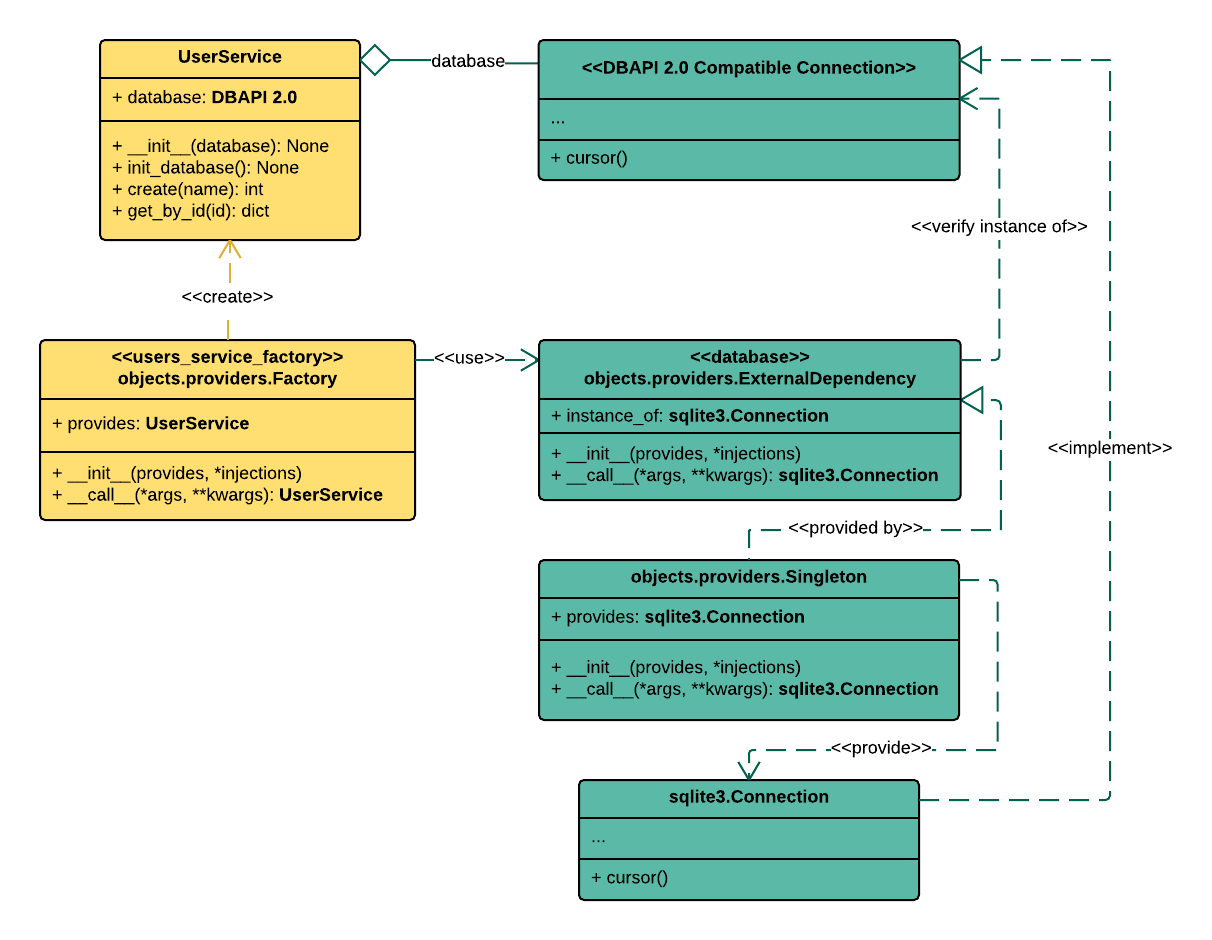
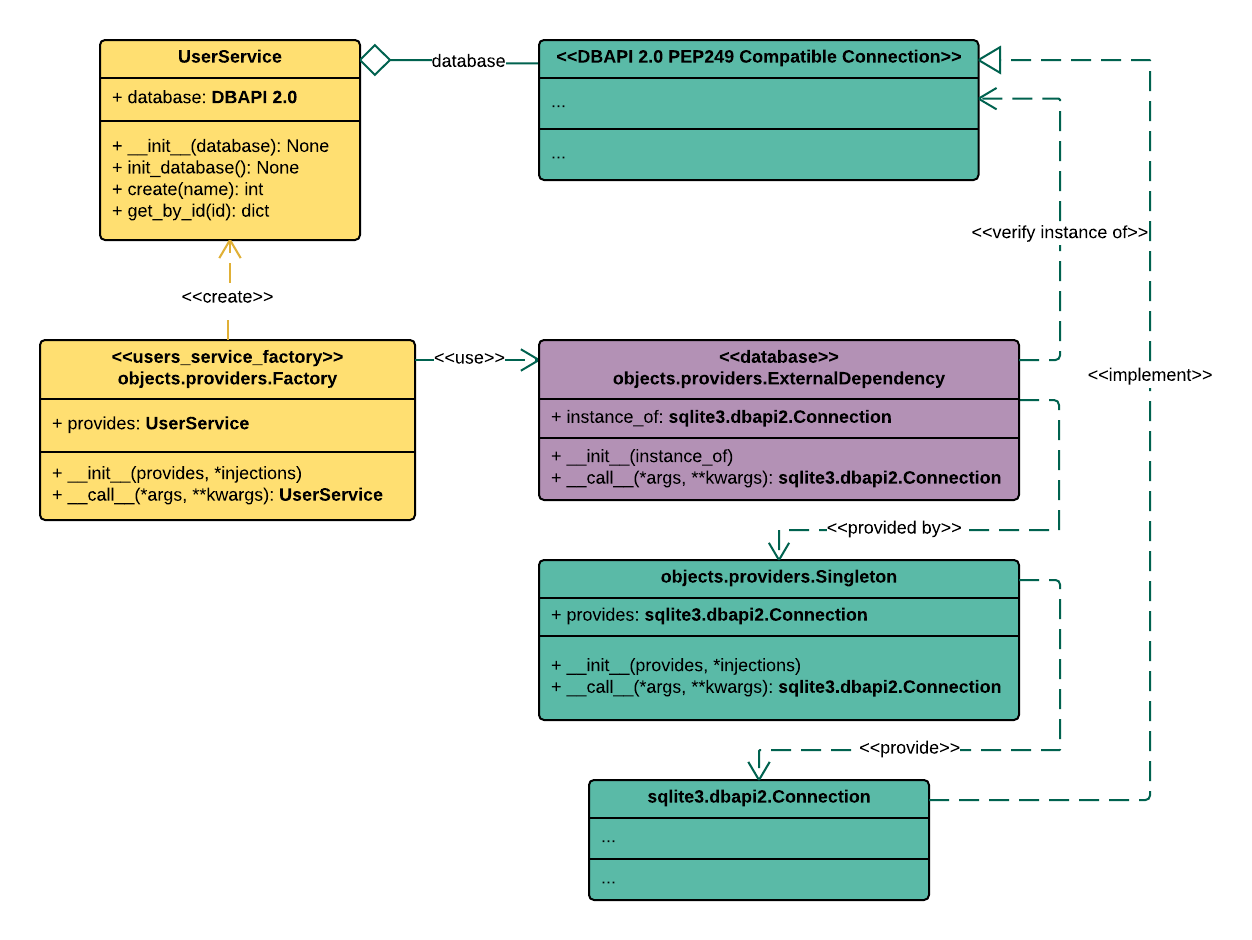
Adding fixes for ExternalDependecy provider docs

diff --git a/examples/providers/external_dependency.py b/examples/providers/external_dependency.py
@@ -17,12 +17,14 @@ class UserService(object):
 
     """Example class UserService.
 
-    UserService has dependency on DBAPI 2.0 database connection."""
+    UserService has dependency on DBAPI 2.0 database connection.
+    """
 
     def __init__(self, database):
         """Initializer.
 
-        Database dependency need to be injected via init arg."""
+        Database dependency need to be injected via init arg.
+        """
         self.database = database
 
     def init_database(self):
@@ -49,14 +51,14 @@ class UserService(object):
 
 
 # Database and UserService providers:
-database = ExternalDependency(instance_of=sqlite3.Connection)
+database = ExternalDependency(instance_of=sqlite3.dbapi2.Connection)
 users_service_factory = Factory(UserService,
                                 KwArg('database', database))
 
 # Out of library's scope.
 #
 # Setting database provider:
-database.provided_by(Singleton(sqlite3.Connection,
+database.provided_by(Singleton(sqlite3.dbapi2.Connection,
                                KwArg('database', ':memory:'),
                                KwArg('timeout', 30),
                                KwArg('detect_types', True),

diff --git a/docs/providers/external_dependency.rst b/docs/providers/external_dependency.rst
@@ -20,7 +20,7 @@ because they would be able to find right place / right way for doing this
 in their application's architectures.
 
 At the same time, you can be sure, that your external dependency will be
-satisfied by appropriate instance.
+satisfied with appropriate instance.
 
 
 Example:
@@ -32,8 +32,8 @@ Example:
     dependency on database connection, which can be satisfied with any
     DBAPI 2.0 database connection. Being a self-sufficient library,
     ``UserService`` doesn't hardcode any kind of database management logic.
-    Instead of this, ``UserService`` provides external dependency, that has to
-    be satisfied out of library's scope.
+    Instead of this, ``UserService`` has external dependency, that has to
+    be satisfied by cleint's code, out of library's scope.
 
 .. image:: /images/external_dependency.png
 
@@ -58,12 +58,14 @@ Example:
 
         """Example class UserService.
 
-        UserService has dependency on DBAPI 2.0 database connection."""
+        UserService has dependency on DBAPI 2.0 database connection.
+        """
 
         def __init__(self, database):
             """Initializer.
 
-            Database dependency need to be injected via init arg."""
+            Database dependency need to be injected via init arg.
+            """
             self.database = database
 
         def init_database(self):
@@ -90,14 +92,14 @@ Example:
 
 
     # Database and UserService providers:
-    database = ExternalDependency(instance_of=sqlite3.Connection)
+    database = ExternalDependency(instance_of=sqlite3.dbapi2.Connection)
     users_service_factory = Factory(UserService,
                                     KwArg('database', database))
 
     # Out of library's scope.
     #
     # Setting database provider:
-    database.provided_by(Singleton(sqlite3.Connection,
+    database.provided_by(Singleton(sqlite3.dbapi2.Connection,
                                    KwArg('database', ':memory:'),
                                    KwArg('timeout', 30),
                                    KwArg('detect_types', True),
@@ -117,4 +119,3 @@ Example:
     # Making some asserts:
     assert test_user['id'] == 1
     assert test_user['name'] == 'test_user'
-

diff --git a/docs/providers/index.rst b/docs/providers/index.rst
@@ -14,3 +14,4 @@ All providers are callable. They describe how particular objects are provided.
     callable
     external_dependency
     delegation
+    extending

diff --git a/docs/providers/extending.rst b/docs/providers/extending.rst
@@ -1,0 +1,2 @@
+Extending of providers
+----------------------
